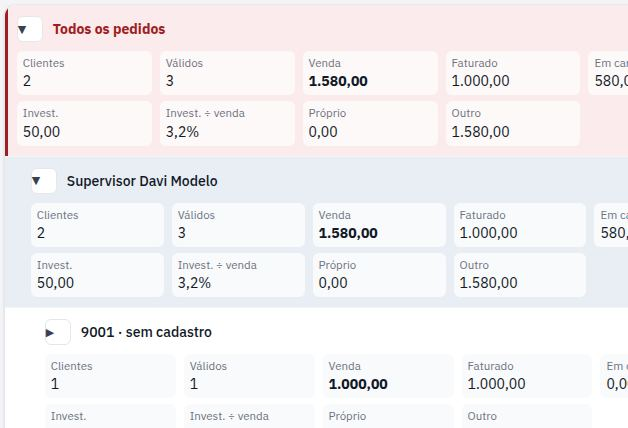
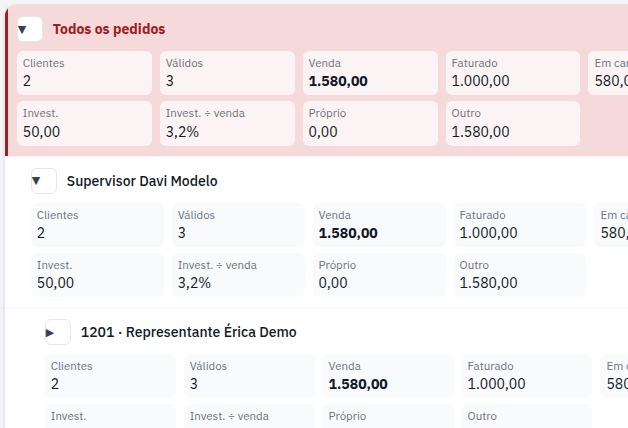
Explorar pedidos: níveis do Explorar carteira e visão Vendas fora da carteira
- Níveis iguais ao Explorar carteira (Supervisor, Rep., Cidade, Segmento, Onda, Rota, Subrota) e Cliente; Supervisor e Rep. da carteira do cliente
- Botão Vendas fora da carteira: só os pedidos de quem não é o dono, por Rep. do pedido › Rep. da carteira › Cliente, sem Próprio e Outro
- Saem os níveis Venda na própria carteira?, Tipo, Situação, Mês e Grupo; Excel mantém os dois representantes
- Ajuda, docs/03 e testes

diff --git a/web/js/telas/_pedidos-analise.js b/web/js/telas/_pedidos-analise.js
@@ -1,6 +1,6 @@
 // Corpo de Explorar pedidos: hierarquia de níveis, cards, gráficos e árvore, como no Explorar carteira. Os pedidos da linha escolhida
 // saem no botão Excel, sem lista na tela. Tudo sobre os pedidos já lidos: arrastar níveis, abrir linhas e filtrar só redesenham no navegador.
-import { filtrarPedidos, montarArvorePedidos, NIVEIS_PEDIDOS, niveisPedidosPossiveis } from '../../shared/pedidos.mjs';
+import { filtrarPedidos, montarArvorePedidos, NIVEIS_FORA, NIVEIS_PEDIDOS, niveisPedidosPossiveis, pedidosForaDaCarteira } from '../../shared/pedidos.mjs';
 import { veTodasEquipes } from '../../shared/perfis.mjs';
 import { h, montar, formatar, comEspera, aviso, semRolagem } from '../ui.js';
 import { significadoDe } from '../../shared/ajuda.mjs';
@@ -32,15 +32,15 @@ export function renderAnalise(destino, { pedidos: todosPedidos, usuario, porGrup
   // ao voltar à tela, a linha escolhida, as abertas e o tipo continuam como estavam (nesta aba do navegador)
   const lembranca = memoriaDaTela(`pedidos${porGrupo ? '-grupo' : ''}`, usuario);
   if (!memoria.has(destino)) {
-    const inicial = { niveis: lerNiveis(possiveis, ['supervisor', 'representante', 'cliente']), abertos: new Set(['']), sel: '', editarNiveis: false, tipo: 'ambos' };
+    const inicial = { niveis: lerNiveis(possiveis, ['supervisor', 'representante', 'cliente']), abertos: new Set(['']), sel: '', editarNiveis: false, tipo: 'ambos', fora: false };
     const salvo = lembranca.ler();
-    if (salvo && JSON.stringify(salvo.niveis) === JSON.stringify(inicial.niveis)) Object.assign(inicial, { sel: salvo.sel ?? '', abertos: new Set(salvo.abertos ?? ['']), tipo: salvo.tipo ?? 'ambos' });
+    if (salvo && JSON.stringify(salvo.niveis) === JSON.stringify(inicial.niveis)) Object.assign(inicial, { sel: salvo.sel ?? '', abertos: new Set(salvo.abertos ?? ['']), tipo: salvo.tipo ?? 'ambos', fora: salvo.fora === true });
     memoria.set(destino, inicial);
   }
   const estado = memoria.get(destino);
   const area = h('div', { id: 'analise-pedidos', class: 'ped-exp' });
   montar(destino, area);
-  const desenhar = () => { montar(area, ...tela()); lembranca.guardar({ niveis: estado.niveis, sel: estado.sel, abertos: [...estado.abertos], tipo: estado.tipo }); };
+  const desenhar = () => { montar(area, ...tela()); lembranca.guardar({ niveis: estado.niveis, sel: estado.sel, abertos: [...estado.abertos], tipo: estado.tipo, fora: estado.fora }); };
   const nome = (n) => NIVEIS_PEDIDOS[n].nome;
   const mudarNiveis = (n) => { estado.niveis = n; estado.abertos = new Set(['']); estado.sel = ''; guardarNiveis(n); desenhar(); };
   const aoFiltrar = () => { estado.abertos = new Set(['']); estado.sel = ''; desenharFiltros(); desenhar(); };
@@ -73,9 +73,16 @@ export function renderAnalise(destino, { pedidos: todosPedidos, usuario, porGrup
         [['venda', 'Pedidos de venda', 'Venda'], ['investimento', 'Pedidos de bonificação', 'Bonificação'], ['ambos', 'Ambos']].map(([v, t, curto]) => opcao(`tipo-${v}`, estado.tipo === v, textoChave(t, curto), () => { estado.tipo = v; }))));
   }
 
+  // Vendas fora da carteira: só os pedidos em que quem vendeu não é o dono do cliente, por Rep. do pedido › Rep. da carteira › Cliente
+  const botaoFora = h('button', { type: 'button', id: 'ver-fora', class: 'secundario', onclick: () => { estado.fora = !estado.fora; estado.abertos = new Set(['']); estado.sel = ''; desenhar(); } });
+  const faixaFora = () => h('div', { class: 'cartao ped-fora', id: 'fora-niveis' }, h('span', { class: 'tit' }, 'Vendas fora da carteira'),
+    h('span', {}, 'Pedidos em que quem vendeu não é o dono da carteira do cliente: ', h('b', {}, NIVEIS_FORA.map(nome).join(' › '))));
+
   function tela() {
-    const vistos = filtrarPedidos(pedidos, { tipo: estado.tipo });
-    const arvore = montarArvorePedidos({ pedidos: vistos, niveis: estado.niveis, abertos: estado.abertos, rotuloRaiz: raiz, porGrupo });
+    const doTipo = filtrarPedidos(pedidos, { tipo: estado.tipo });
+    const fora = pedidosForaDaCarteira(doTipo);
+    const vistos = estado.fora ? fora : doTipo;
+    const arvore = montarArvorePedidos({ pedidos: vistos, niveis: estado.fora ? NIVEIS_FORA : estado.niveis, abertos: estado.abertos, rotuloRaiz: estado.fora ? 'Vendas fora da carteira' : raiz, porGrupo });
     const escolhido = arvore.find((n) => n.caminho === estado.sel) ?? arvore[0];
     const ind = escolhido.ind;
     const etapas = arvore.filter((n) => estado.sel === n.caminho || estado.sel.startsWith(`${n.caminho}/`) || n.caminho === '').sort((a, b) => a.profundidade - b.profundidade);
@@ -85,7 +92,7 @@ export function renderAnalise(destino, { pedidos: todosPedidos, usuario, porGrup
 
     const numeros = h('div', { id: 'analise-numeros' }, cartoes([['Venda válida', moeda(ind.venda.valor), `${n0(ind.venda.qtd)} pedidos · ${n0(ind.clientes)} clientes`, 'destaque'], ['Faturado', moeda(ind.faturado), `${pct(ind.pctFaturado)} da venda`],
       ['Em carteira', moeda(ind.saldo), `ticket médio ${moeda(ind.ticket)}`], ['Digitado', moeda(ind.digitado.valor), `${n0(ind.digitado.qtd)} pedidos`], ['Desistência', moeda(ind.cancelado.valor), `${n0(ind.cancelado.qtd)} pedidos`], ['Investimento', moeda(ind.investimento.valor), `${n0(ind.investimento.qtd)} bonificações`, 'investimento'],
-      ['Próprio', moeda(ind.propria), `${pct(ind.venda.valor ? (ind.propria / ind.venda.valor) * 100 : null)} da venda`], ['Outro', moeda(ind.outra), `${pct(ind.venda.valor ? (ind.outra / ind.venda.valor) * 100 : null)} da venda`]]));
+      ...(estado.fora ? [] : [['Próprio', moeda(ind.propria), `${pct(ind.venda.valor ? (ind.propria / ind.venda.valor) * 100 : null)} da venda`], ['Outro', moeda(ind.outra), `${pct(ind.venda.valor ? (ind.outra / ind.venda.valor) * 100 : null)} da venda`]])]));
 
     // Faturamento da venda: só a venda válida, faturado × a faturar. O que aconteceu: todos os pedidos de venda, inclusive os que não viraram venda
     const venda = barra('Faturamento da venda', `Dos ${moeda(ind.venda.valor)} vendidos, ${moeda(ind.faturado)} já faturaram`,
@@ -104,7 +111,8 @@ export function renderAnalise(destino, { pedidos: todosPedidos, usuario, porGrup
       desenhar();
     };
     // rótulos numa linha só (os valores são em R$, dito abaixo da árvore); a dica do rótulo traz o significado
-    const cab = h('div', { class: 'exp-linha cab' }, ['Hierarquia', 'Clientes', 'Válidos', 'Venda', 'Faturado', 'Em carteira', 'Digitado', 'Desistência', 'Invest.', 'Invest. ÷ venda', 'Próprio', 'Outro']
+    // em Vendas fora da carteira, tudo é Outro: as colunas Próprio e Outro saem
+    const cab = h('div', { class: 'exp-linha cab' }, ['Hierarquia', 'Clientes', 'Válidos', 'Venda', 'Faturado', 'Em carteira', 'Digitado', 'Desistência', 'Invest.', 'Invest. ÷ venda', ...(estado.fora ? [] : ['Próprio', 'Outro'])]
       .map((t, i) => h('span', { class: i ? 'num' : '', title: significadoDe(t === 'Venda' ? 'Venda válida' : t) }, t)));
     const linhas = arvore.map((n) => h('div', { class: `exp-linha${n.caminho === escolhido.caminho ? ' escolhida' : ''}${n.profundidade ? '' : ' raiz'}`, dados: { caminho: n.caminho }, style: `--prof:${n.profundidade}`, onclick: () => clicarLinha(n) },
       h('span', { class: 'ramo', style: `padding-left:${n.profundidade * 24}px` },
@@ -116,13 +124,17 @@ export function renderAnalise(destino, { pedidos: todosPedidos, usuario, porGrup
       // `dados.r` = rótulo do número quando a linha vira cartão
       ...[['Clientes', n0(n.ind.clientes)], ['Válidos', n0(n.ind.venda.qtd)], ['Venda', valor(n.ind.venda.valor), 'venda'], ['Faturado', valor(n.ind.faturado)], ['Em carteira', valor(n.ind.saldo)],
         ['Digitado', valor(n.ind.digitado.valor)], ['Desistência', valor(n.ind.cancelado.valor)], ['Invest.', valor(n.ind.investimento.valor)], ['Invest. ÷ venda', pct(n.ind.pctInvestimento)],
-        ['Próprio', valor(n.ind.propria)], ['Outro', valor(n.ind.outra)]].map(([r, v, classe]) => h(classe ? 'b' : 'span', { class: `num${classe ? ` ${classe}` : ''}`, dados: { r } }, v))));
+        ...(estado.fora ? [] : [['Próprio', valor(n.ind.propria)], ['Outro', valor(n.ind.outra)]])].map(([r, v, classe]) => h(classe ? 'b' : 'span', { class: `num${classe ? ` ${classe}` : ''}`, dados: { r } }, v))));
 
     pedidosDaLinha = escolhido.pedidos;
     botaoExcel.disabled = !pedidosDaLinha.length;
     botaoExcel.textContent = `Excel · ${n0(pedidosDaLinha.length)} ${pedidosDaLinha.length === 1 ? 'pedido' : 'pedidos'}`;
     botaoExcel.title = `Pedidos de ${escolhido.rotulo}`;
-    return [...blocoNiveis({ estado, possiveis, nome, mudarNiveis, desenhar }), h('div', { class: 'rej-barra' }, migalhas, botaoExcel), numeros, h('div', { class: 'exp-quadros' }, venda, processo),
+    botaoFora.textContent = estado.fora ? 'Voltar à hierarquia' : `Vendas fora da carteira · ${n0(fora.length)} ${fora.length === 1 ? 'pedido' : 'pedidos'}`;
+    botaoFora.setAttribute('aria-pressed', estado.fora ? 'true' : 'false');
+    botaoFora.disabled = !estado.fora && !fora.length;
+    area.classList.toggle('fora', estado.fora);
+    return [...(estado.fora ? [faixaFora()] : blocoNiveis({ estado, possiveis, nome, mudarNiveis, desenhar })), h('div', { class: 'rej-barra' }, migalhas, h('div', { class: 'ped-botoes' }, botaoFora, botaoExcel)), numeros, h('div', { class: 'exp-quadros' }, venda, processo),
       semRolagem(h('section', { class: 'cartao exp-arvore', 'aria-label': 'Árvore' }, h('div', { class: 'rolagem' }, cab, linhas), h('p', { class: 'ajuda exp-nota' }, 'Valores em R$.')), { cortados: '.exp-linha > .num' })];
   }
   desenharFiltros();

diff --git a/web/css/app.css b/web/css/app.css
@@ -748,6 +748,11 @@ button.chip-situacao.ativa:hover { background: var(--destaque-claro); color: var
 /* todas as linhas com a mesma largura: cada linha é um grid próprio, e só assim os números ficam sob os títulos */
 .ped-exp .exp-linha { grid-template-columns: minmax(200px, 3fr) repeat(11, minmax(0, 1fr)); width: 100%; min-width: 0; box-sizing: border-box; }
 .ped-exp .exp-arvore { margin-bottom: 16px; }
+/* Vendas fora da carteira: sem as colunas Próprio e Outro; no lugar dos níveis, a faixa que diz o que se vê */
+.ped-exp.fora .exp-linha { grid-template-columns: minmax(200px, 3fr) repeat(9, minmax(0, 1fr)); }
+.ped-fora { display: flex; flex-wrap: wrap; gap: 4px 12px; align-items: center; padding: 12px 14px; margin-bottom: 14px; font-size: 14px; }
+.ped-fora .tit { font-size: 12px; font-weight: 600; color: #374151; text-transform: uppercase; letter-spacing: .06em; white-space: nowrap; }
+.ped-botoes { display: flex; flex-wrap: wrap; gap: 8px; }
 /* sem rolagem para o lado: rótulos e números numa linha só; o que não cabe vira cartão (semRolagem, web/js/ui.js) */
 .ped-exp .exp-linha.cab > span, .ped-exp .exp-linha.cab .num { white-space: nowrap; overflow: hidden; text-overflow: clip; }
 .ped-exp .exp-linha > .num { overflow: hidden; }

diff --git a/web/js/telas/pedidos.js b/web/js/telas/pedidos.js
@@ -30,7 +30,7 @@ export async function render(conteudo, { usuario }) {
         `${alertasAbertos ? '▼' : '▶'} ${alertas.length} ${alertas.length === 1 ? 'alerta' : 'alertas'} para olhar`),
       alertasAbertos ? [tabelaPedidos([{ titulo: 'Alerta', valor: (a) => selo(a.rotulo, a.tipo === 'bonificacao' ? 'investimento' : 'alerta'), classe: 'cen' },
         { titulo: 'Razão social', valor: (a) => (a.prospectId ? h('a', { href: `#/ficha?id=${a.prospectId}` }, a.cliente) : a.cliente) }, { titulo: 'O que aconteceu', campo: 'detalhe' }, { titulo: 'Quem age', campo: 'quem', classe: 'cen' }], alertas, { id: 'tabela-alertas' }),
-      h('p', { class: 'ajuda', style: 'margin:10px 0 0' }, 'Prazos e limites ficam em Administração → Parâmetros. Venda para cliente de outro representante não é alerta: veja pelo nível Quem vendeu.')] : null));
+      h('p', { class: 'ajuda', style: 'margin:10px 0 0' }, 'Prazos e limites ficam em Administração → Parâmetros. Venda para cliente de outro representante não é alerta: veja em Vendas fora da carteira.')] : null));
   }
   desenharFaixa();
   desenhar();

diff --git a/docs/03-regras-negocio.md b/docs/03-regras-negocio.md
@@ -186,7 +186,7 @@ voltar da ficha, do lote ou pelo menu) e a lista já lida vem do cache (`lerComC
 limpa), sem ler o banco de novo. "Limpar filtros" abre a lista limpa (`?limpo=1`). Explorar carteira, Explorar pedidos,
 Acompanhamento e Rejeitados voltam com a linha escolhida, as linhas abertas e o tipo/etapa.
 
-**Níveis da hierarquia** (Explorar carteira, Explorar pedidos, Acompanhamento e Rejeitados): Níveis e Disponíveis numa linha só, lado a lado; cabendo, tudo numa linha; faltando espaço, as duas partes dividem a linha conforme o tamanho e quebram dentro delas, sem rolagem para o lado. No Explorar pedidos, o nome do nível diz de onde vem a informação: Supervisor da carteira, Rep. do pedido, Rep. da carteira (no Excel, por extenso), Venda na própria carteira?, Cidade/Segmento/Onda do cliente, Grupo de CNPJ, Tipo, Situação e Mês do pedido. Nos níveis, representante aparece abreviado como Rep.
+**Níveis da hierarquia** (Explorar carteira, Explorar pedidos, Acompanhamento e Rejeitados): Níveis e Disponíveis numa linha só, lado a lado; cabendo, tudo numa linha; faltando espaço, as duas partes dividem a linha conforme o tamanho e quebram dentro delas, sem rolagem para o lado. Representante aparece abreviado como Rep. O Explorar pedidos usa os mesmos níveis do Explorar carteira (Supervisor, Rep., Cidade, Segmento, Onda, Rota, Subrota) e Cliente; Supervisor e Rep. são os da carteira do cliente. O botão **Vendas fora da carteira** mostra só os pedidos em que quem vendeu não é o dono da carteira, por Rep. do pedido › Rep. da carteira › Cliente (sem as colunas Próprio e Outro); o Excel traz os dois representantes.
 
 **Municípios, rota e subrota em maiúsculas** (0027, 0028): ficam sempre em maiúsculas, com acento, inclusive nos baixados; a importação da base já grava assim. **Segmento:** "Atacado Perueiro" passa a ser "Atacado" (também nas próximas importações).
 
